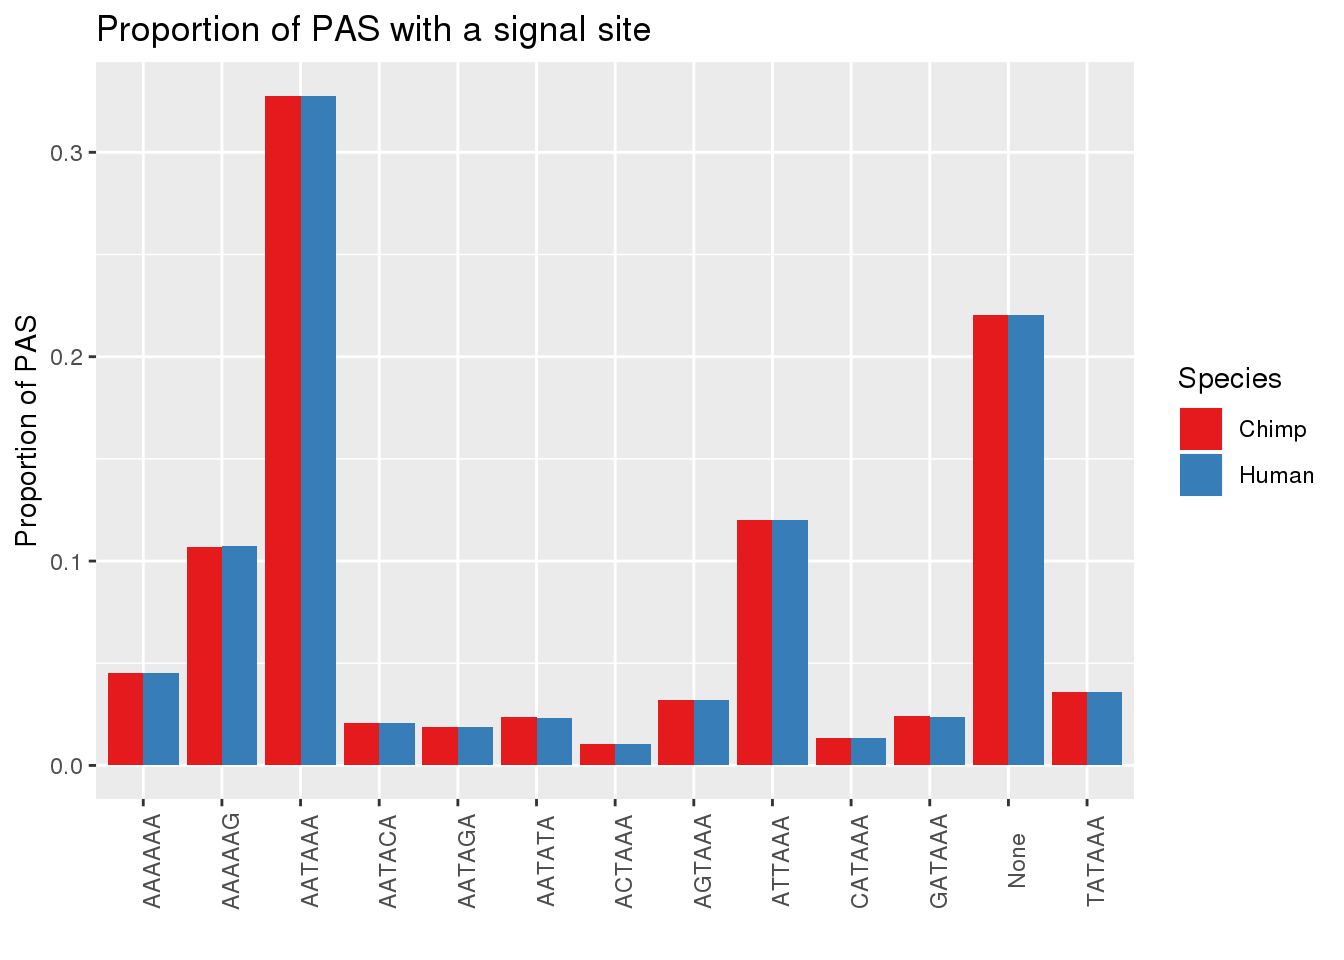
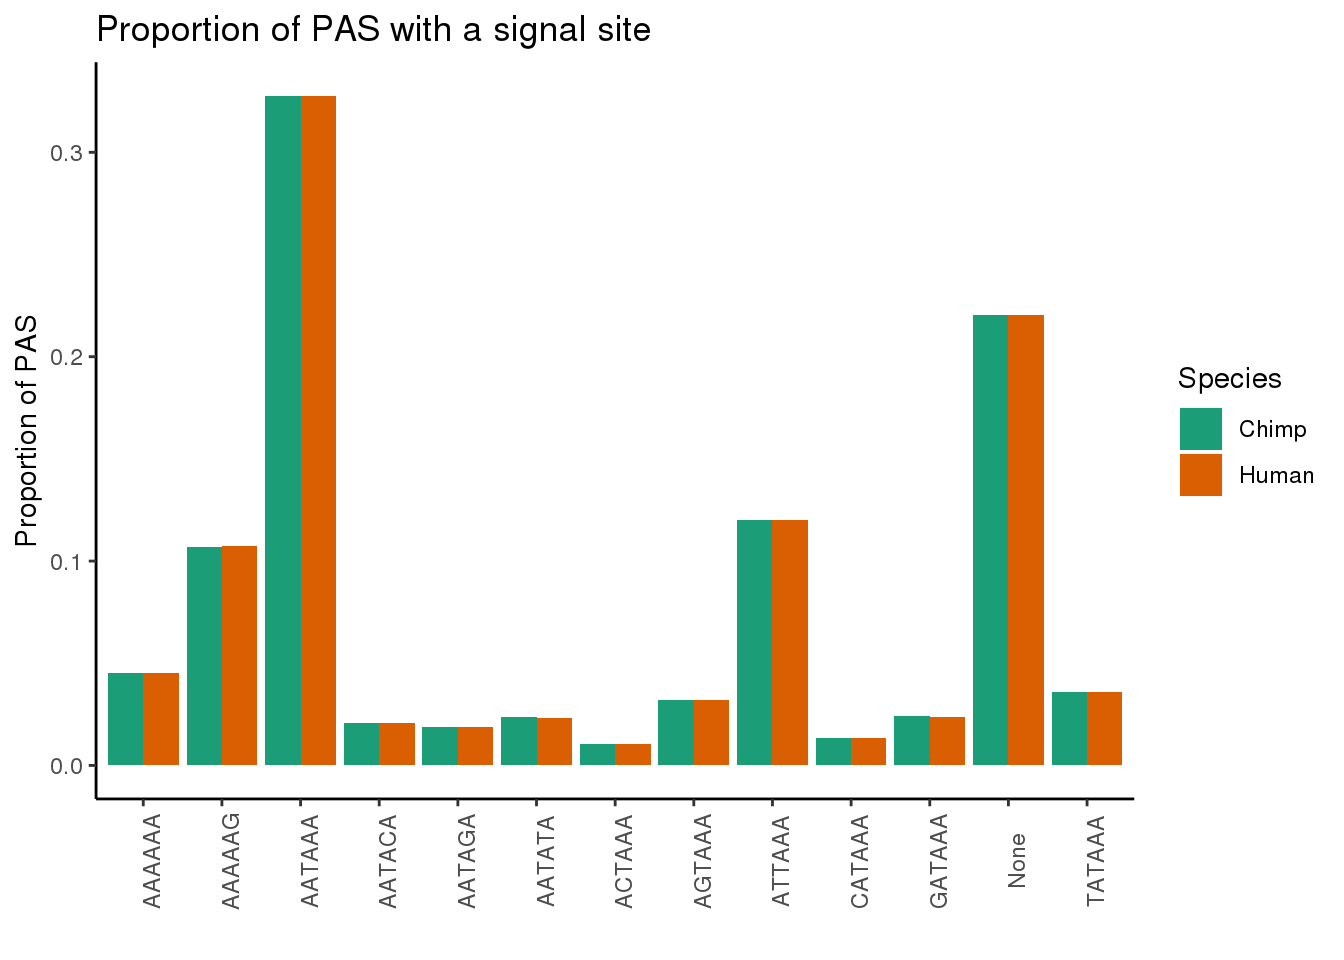
Build site.

Changed region(s): [[0.0625, 0.0938, 0.8438, 0.8438], [0.875, 0.4062, 0.9062, 0.5312]]

diff --git a/docs/signalsites_doublefilter.html b/docs/signalsites_doublefilter.html
@@ -343,7 +343,7 @@ div.section {
 <div class="tab-content">
 <div id="summary" class="tab-pane fade in active">
 <p>
-<strong>Last updated:</strong> 2020-05-04
+<strong>Last updated:</strong> 2020-05-27
 </p>
 <p>
 <strong>Checks:</strong> <span class="glyphicon glyphicon-ok text-success" aria-hidden="true"></span> 7 <span class="glyphicon glyphicon-exclamation-sign text-danger" aria-hidden="true"></span> 0
@@ -434,10 +434,10 @@ This reproducible <a href="http://rmarkdown.rstudio.com">R Markdown</a> analysis
 <div class="panel panel-default">
 <div class="panel-heading">
 <p class="panel-title">
-<a data-toggle="collapse" data-parent="#workflowr-checks" href="#strongRepositoryversionstrongahrefhttpsgithubcombrimittlemanComparativeAPAtree9dacbd4f17c1f957e0d2c10dce84e319b0fcfe31targetblank9dacbd4a"> <span class="glyphicon glyphicon-ok text-success" aria-hidden="true"></span> <strong>Repository version:</strong> <a href="https://github.com/brimittleman/Comparative_APA/tree/9dacbd4f17c1f957e0d2c10dce84e319b0fcfe31" target="_blank">9dacbd4</a> </a>
+<a data-toggle="collapse" data-parent="#workflowr-checks" href="#strongRepositoryversionstrongahrefhttpsgithubcombrimittlemanComparativeAPAtree157b557eabbb225d9d30c8ca7155d66f1b219c70targetblank157b557a"> <span class="glyphicon glyphicon-ok text-success" aria-hidden="true"></span> <strong>Repository version:</strong> <a href="https://github.com/brimittleman/Comparative_APA/tree/157b557eabbb225d9d30c8ca7155d66f1b219c70" target="_blank">157b557</a> </a>
 </p>
 </div>
[2 lines of base64/hex data omitted]
 <div class="panel-body">
 <p>
 Great! You are using Git for version control. Tracking code development and connecting the code version to the results is critical for reproducibility. The version displayed above was the version of the Git repository at the time these results were generated. <br><br> Note that you need to be careful to ensure that all relevant files for the analysis have been committed to Git prior to generating the results (you can use <code>wflow_publish</code> or <code>wflow_git_commit</code>). workflowr only checks the R Markdown file, but you know if there are other scripts or data files that it depends on. Below is the status of the Git repository when the results were generated:
@@ -461,6 +461,8 @@ Untracked files:
     Untracked:  Chimp/
     Untracked:  Human/
     Untracked:  analysis/AREstabilityScores.Rmd
+    Untracked:  analysis/AllLoc_effectSizeCor.Rmd
+    Untracked:  analysis/Conservation_bydAPAset.Rmd
     Untracked:  analysis/CrossChimpThreePrime.Rmd
     Untracked:  analysis/DiffTransProtvsExpression.Rmd
     Untracked:  analysis/DiffUsedUTR.Rmd
@@ -682,6 +684,12 @@ Untracked files:
     Untracked:  code/CrossmapChimpRNA.err
     Untracked:  code/CrossmapChimpRNA.out
     Untracked:  code/DTUTR.sh
+    Untracked:  code/DiffDom_RNAmotif_4.err
+    Untracked:  code/DiffDom_RNAmotif_4.out
+    Untracked:  code/DiffDom_RNAmotif_4.sh
+    Untracked:  code/DiffDom_RNAmotif_4_splitDE.err
+    Untracked:  code/DiffDom_RNAmotif_4_splitDE.out
+    Untracked:  code/DiffDom_RNAmotif_4_splitDE.sh
     Untracked:  code/DiffSplice.err
     Untracked:  code/DiffSplice.out
     Untracked:  code/DiffSplice.sh
@@ -795,6 +803,7 @@ Untracked files:
     Untracked:  code/PASsequences_DF.sh
     Untracked:  code/PlotNuclearUsagebySpecies.R
     Untracked:  code/PlotNuclearUsagebySpecies_DF.R
+    Untracked:  code/PlotNuclearUsagebySpecies_DF_4DIC.R
     Untracked:  code/PlotNuclearUsagebySpecies_DF_DEout.R
     Untracked:  code/QuantMergeClusters
     Untracked:  code/QuantMergeClusters.err
@@ -803,6 +812,12 @@ Untracked files:
     Untracked:  code/RNATranscriptDTplot.err
     Untracked:  code/RNATranscriptDTplot.out
     Untracked:  code/RNATranscriptDTplot.sh
+    Untracked:  code/RNAmotif_PAS.err
+    Untracked:  code/RNAmotif_PAS.out
+    Untracked:  code/RNAmotif_PAS.sh
+    Untracked:  code/RNAmotif_PAS_chimp.err
+    Untracked:  code/RNAmotif_PAS_chimp.out
+    Untracked:  code/RNAmotif_PAS_chimp.sh
     Untracked:  code/Rev_liftoverPAShg19to38.err
     Untracked:  code/Rev_liftoverPAShg19to38.out
     Untracked:  code/ReverseLiftFilter.R
@@ -901,6 +916,7 @@ Untracked files:
     Untracked:  code/convertNumeric.py
     Untracked:  code/environment.yaml
     Untracked:  code/extraSnakefiltpas
+    Untracked:  code/extractPhaastConGeneral.py
     Untracked:  code/extractPhyloReg.py
     Untracked:  code/extractPhyloRegGene.py
     Untracked:  code/extractPhylopGeneral.py
@@ -958,10 +974,15 @@ Untracked files:
     Untracked:  code/leafcutter_merge_regtools_redo.py
     Untracked:  code/liftJunctionFiles.sh
     Untracked:  code/liftPAS19to38.sh
+    Untracked:  code/liftVCF.out
+    Untracked:  code/liftVCF.sh
     Untracked:  code/liftoverPAShg19to38.err
     Untracked:  code/liftoverPAShg19to38.out
+    Untracked:  code/lliftVCF.err
     Untracked:  code/log/
     Untracked:  code/make5percPeakbed.py
+    Untracked:  code/makeDIC.err
+    Untracked:  code/makeDIC.out
     Untracked:  code/makeFileID.py
     Untracked:  code/makeNuclearDapaplots.sh
     Untracked:  code/makeNuclearDapaplots_DF.sh
@@ -972,6 +993,7 @@ Untracked files:
     Untracked:  code/makePheno.py
     Untracked:  code/makeSamplyGroupsChimp_TvN.py
     Untracked:  code/makeSamplyGroupsHuman_TvN.py
+    Untracked:  code/makedICPlots_DF.sh
     Untracked:  code/mapRNAseqhg19.sh
     Untracked:  code/mapRNAseqhg19_newPipeline.sh
     Untracked:  code/maphg19.err
@@ -1177,6 +1199,7 @@ Untracked files:
     Untracked:  data/BaseComp/
     Untracked:  data/CleanLiftedPeaks_FC_primary/
     Untracked:  data/CompapaQTLpas/
+    Untracked:  data/DIC_Viz/
     Untracked:  data/DNDS/
     Untracked:  data/DTmatrix/
     Untracked:  data/DiffDomandDE_example/
@@ -1187,6 +1210,7 @@ Untracked files:
     Untracked:  data/DiffSplice/
     Untracked:  data/DiffSplice_liftedJunc/
     Untracked:  data/DiffSplice_removeBad/
+    Untracked:  data/DistTwoDom/
     Untracked:  data/DomDefGreaterX/
     Untracked:  data/DomStructure_4/
     Untracked:  data/DominantPAS/
@@ -1215,7 +1239,9 @@ Untracked files:
     Untracked:  data/PAS/
     Untracked:  data/PAS_SAF/
     Untracked:  data/PAS_doubleFilter/
+    Untracked:  data/PTM/
     Untracked:  data/Peaks_5perc/
+    Untracked:  data/PhastCon/
     Untracked:  data/Pheno_5perc/
     Untracked:  data/Pheno_5perc_DF_nuclear/
     Untracked:  data/Pheno_5perc_nuclear/
@@ -1223,6 +1249,7 @@ Untracked files:
     Untracked:  data/Pheno_5perc_total/
     Untracked:  data/PhyloP/
     Untracked:  data/Pol2Chip/
+    Untracked:  data/QTLPASoverlap/
     Untracked:  data/RNASEQ_metadata.txt
     Untracked:  data/RNASEQ_metadata_2Removed.txt
     Untracked:  data/RNASEQ_metadata_2Removed.xlsx
@@ -1246,6 +1273,7 @@ Untracked files:
     Untracked:  data/TotalHvC/
     Untracked:  data/TrialFiltersMeta.txt
     Untracked:  data/TwoBadSampleAnalysis/
+    Untracked:  data/UrichElements/
     Untracked:  data/Wang_ribo/
     Untracked:  data/apaQTLGenes/
     Untracked:  data/bioGRID/
@@ -1272,20 +1300,30 @@ Untracked files:
     Untracked:  data/primaryLift/
     Untracked:  data/reverseLift/
     Untracked:  data/testQuant/
+    Untracked:  data/utrDB/
     Untracked:  data/~$RNASEQ_metadata.xlsx
     Untracked:  data/~$metadata_HCpanel.xlsx
     Untracked:  data/.xlsx
     Untracked:  output/._.DS_Store
+    Untracked:  output/DEandTEeffectsize
+    Untracked:  output/DEeffectsize
+    Untracked:  output/TEeffectsize
+    Untracked:  output/Ubiqplot
     Untracked:  output/dAPAandDomEnrich.png
     Untracked:  output/dEandDomEnrich.png
+    Untracked:  output/dpnotDE
     Untracked:  output/dtPlots/
+    Untracked:  output/exandte
+    Untracked:  output/whichSiteplot.pdf
     Untracked:  projectNotes.Rmd
     Untracked:  proteinModelSet.Rmd
 
 Unstaged changes:
     Modified:   analysis/DeandNumPAS.Rmd
+    Modified:   analysis/DiffTop2SecondDom.Rmd
+    Modified:   analysis/DirSelectionKhan.Rmd
+    Modified:   analysis/EffectSizeRelationshipFixDir.Rmd
     Modified:   analysis/ExploredAPA.Rmd
-    Modified:   analysis/ExploredAPA_DF.Rmd
     Modified:   analysis/MMExpreiment.Rmd
     Modified:   analysis/OppositeMap.Rmd
     Modified:   analysis/PTM_analysis.Rmd
@@ -1295,10 +1333,15 @@ Unstaged changes:
     Modified:   analysis/changeMisprimcut.Rmd
     Modified:   analysis/comp2apaQTLPAS.Rmd
     Modified:   analysis/correlationPhenos.Rmd
+    Modified:   analysis/dInforContent.Rmd
+    Modified:   analysis/diffExpression.Rmd
     Modified:   analysis/establishCutoffs.Rmd
+    Modified:   analysis/incorporateQTLsAncestral.Rmd
     Modified:   analysis/investigatePantro5.Rmd
     Modified:   analysis/mRNADecay.Rmd
+    Modified:   analysis/miRNAanalysis.Rmd
     Modified:   analysis/multiMap.Rmd
+    Modified:   analysis/phastCon.Rmd
     Modified:   analysis/pol2.Rmd
     Modified:   analysis/speciesSpecific.Rmd
 
@@ -1339,6 +1382,40 @@ Message
 </tr>
 </thead>
 <tbody>
+<tr>
+<td>
+Rmd
+</td>
+<td>
+<a href="https://github.com/brimittleman/Comparative_APA/blob/157b557eabbb225d9d30c8ca7155d66f1b219c70/analysis/signalsites_doublefilter.Rmd" target="_blank">157b557</a>
+</td>
+<td>
+brimittleman
+</td>
+<td>
+2020-05-27
+</td>
+<td>
+fix plot
+</td>
+</tr>
+<tr>
+<td>
+html
+</td>
+<td>
+<a href="https://rawcdn.githack.com/brimittleman/Comparative_APA/91ddb003f295b94a91588da4cc1b27930c3d1e36/docs/signalsites_doublefilter.html" target="_blank">91ddb00</a>
+</td>
+<td>
+brimittleman
+</td>
+<td>
+2020-05-04
+</td>
+<td>
+Build site.
+</td>
+</tr>
 <tr>
 <td>
 Rmd
@@ -1679,12 +1756,12 @@ add ss and PAS num DF
 <pre><code>This is workflowr version 1.6.0
 Run ?workflowr for help getting started</code></pre>
 <pre class="r"><code>library(tidyverse)</code></pre>
-<pre><code>── Attaching packages ──────────────────────────────────────────────────── tidyverse 1.2.1 ──</code></pre>
+<pre><code>── Attaching packages ──────────────────────────────────────────────────────────────────────────────── tidyverse 1.2.1 ──</code></pre>
 <pre><code>✔ tibble  2.1.1       ✔ purrr   0.3.2  
 ✔ tidyr   0.8.3       ✔ dplyr   0.8.0.1
 ✔ readr   1.3.1       ✔ stringr 1.3.1  
 ✔ tibble  2.1.1       ✔ forcats 0.3.0  </code></pre>
-<pre><code>── Conflicts ─────────────────────────────────────────────────────── tidyverse_conflicts() ──
+<pre><code>── Conflicts ─────────────────────────────────────────────────────────────────────────────────── tidyverse_conflicts() ──
 ✖ tidyr::extract()   masks magrittr::extract()
 ✖ dplyr::filter()    masks stats::filter()
 ✖ dplyr::lag()       masks stats::lag()
@@ -3411,7 +3488,8 @@ brimittleman
 <p>Get proportion plot.</p>
 <pre class="r"><code>MetaPASwSS_Sm = MetaPASwSS %&gt;%  dplyr::select(PAS,ChimpPAS, HumanPAS) %&gt;% gather(&quot;Species&quot;, &quot;SS&quot;, -PAS) %&gt;% group_by(Species,SS) %&gt;% summarise(nSS=n()) %&gt;% mutate(propSS=nSS/nrow(MetaPASwSS))
 
-ggplot(MetaPASwSS_Sm, aes(x=SS,y=propSS,by=Species,fill=Species)) + geom_bar(stat=&quot;identity&quot;, position = &quot;dodge&quot;) + theme(axis.text.x = element_text(angle = 90)) + scale_fill_brewer(palette = &quot;Set1&quot;, label=c(&quot;Chimp&quot;, &quot;Human&quot;))  + labs(y=&quot;Proportion of PAS&quot;,title=&quot;Proportion of PAS with a signal site&quot;, x=&quot;&quot;)</code></pre>
+ggplot(MetaPASwSS_Sm, aes(x=SS,y=propSS,by=Species,fill=Species)) + geom_bar(stat=&quot;identity&quot;, position = &quot;dodge&quot;) + theme(axis.text.x = element_text(angle = 90)) + scale_fill_brewer(palette = &quot;Dark2&quot;, label=c(&quot;Chimp&quot;, &quot;Human&quot;))  + labs(y=&quot;Proportion of PAS&quot;,title=&quot;Proportion of PAS with a signal site&quot;, x=&quot;&quot;)+ theme(panel.border = element_blank(), panel.grid.major = element_blank(),
+panel.grid.minor = element_blank(), axis.line = element_line(colour = &quot;black&quot;),panel.background = element_blank())</code></pre>
 <p><img src="figure/signalsites_doublefilter.Rmd/unnamed-chunk-37-1.png" width="672" style="display: block; margin: auto;" /></p>
 <p>
 <button type="button" class="btn btn-default btn-xs btn-workflowr btn-workflowr-fig" data-toggle="collapse" data-target="#fig-unnamed-chunk-37-1">
@@ -3879,6 +3957,7 @@ brimittleman
 </div>
 <p>Write out this extra info:</p>
 <pre class="r"><code>write.table(MetaPASwSS_top, &quot;../data/PAS_doubleFilter/PAS_10perc_either_HumanCoord_BothUsage_meta_doubleFilter_withSSTop2.txt&quot;, col.names = T, quote = F, row.names = F)</code></pre>
+<pre class="r"><code>MetaPASwSS_SmnoNone= MetaPASwSS_Sm %&gt;% filter(SS!=&quot;None&quot;)</code></pre>
 <br>
 <p>
 <button type="button" class="btn btn-default btn-workflowr btn-workflowr-sessioninfo" data-toggle="collapse" data-target="#workflowr-sessioninfo" style="display: block;">
